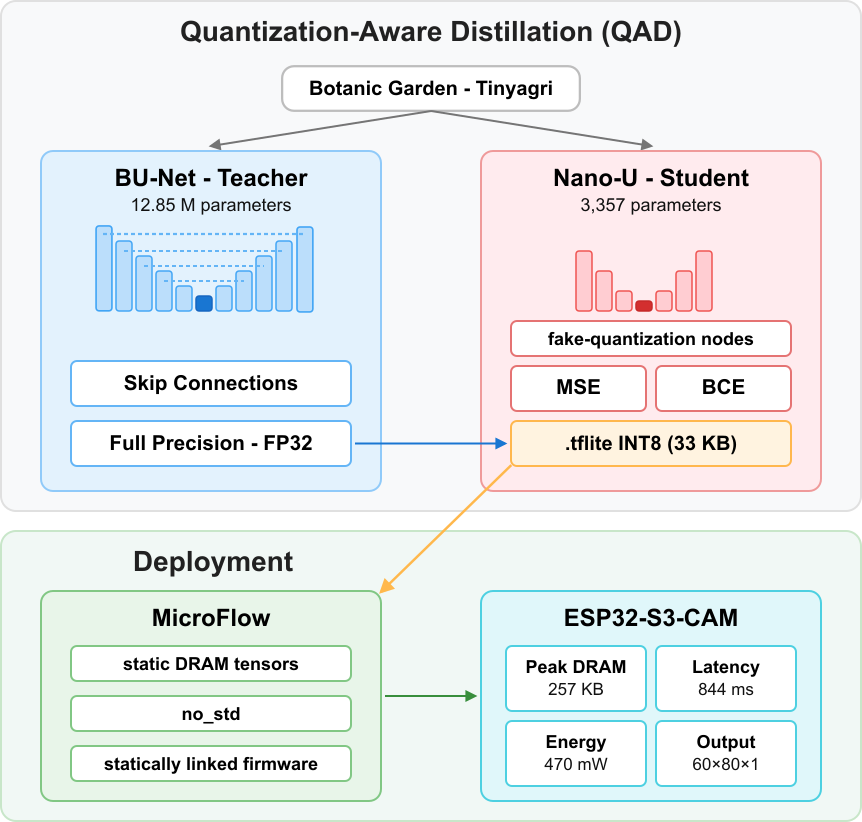
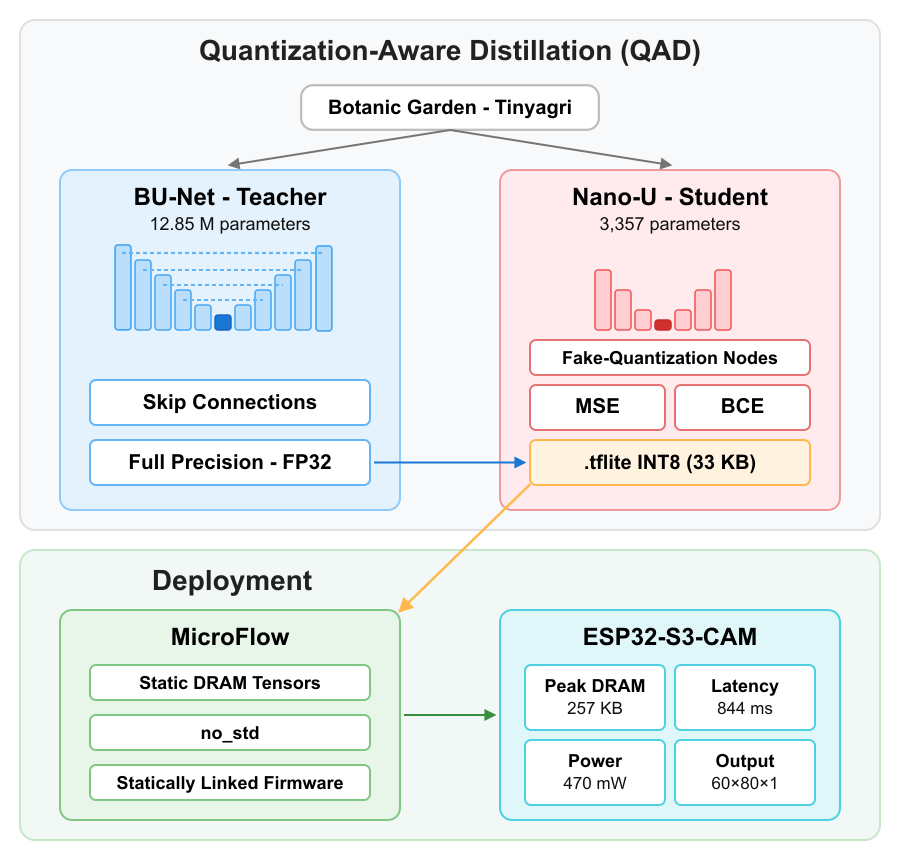
updated documentation

Changed region(s): [[0.0, 0.0, 1.0, 1.0], [0.9954, 0.0, 1.0, 0.6083]]

diff --git a/README.md b/README.md
@@ -24,14 +24,14 @@ The model is trained with **Quantization-Aware Distillation (QAD)** — a single
 
 | Model | Dataset | mIoU | F1 | Precision | Recall |
 |:---|:---|:---:|:---:|:---:|:---:|
-| BU-Net (Teacher, Float32) | Botanic Garden | 94.6% | 95.3% | 96.6% | 93.9% |
-| Nano-U (Float32) | Botanic Garden | 88.2% | 89.0% | 94.6% | 84.0% |
-| **Nano-U (INT8, on ESP32)** | **Botanic Garden** | **88.1%** | **88.9%** | **94.5%** | **83.9%** |
-| BU-Net (Teacher, Float32) | TinyAgri | 91.4% | 95.5% | 94.1% | 96.8% |
-| Nano-U (Float32) | TinyAgri | 87.5% | 93.4% | 90.2% | 97.0% |
-| **Nano-U (INT8, on ESP32)** | **TinyAgri** | **70.6%** | **83.0%** | **80.1%** | **86.1%** |
+| BU-Net (Teacher, Float32) | Botanic Garden | 95.2% | 95.8% | 96.9% | 94.7% |
+| Nano-U (Float32) | Botanic Garden | 87.6% | 88.3% | 94.0% | 83.3% |
+| **Nano-U (INT8, on ESP32)** | **Botanic Garden** | **87.6%** | **88.4%** | **94.1%** | **83.3%** |
+| BU-Net (Teacher, Float32) | TinyAgri | 90.9% | 95.2% | 93.9% | 96.5% |
+| Nano-U (Float32) | TinyAgri | 88.4% | 93.7% | 93.5% | 94.0% |
+| **Nano-U (INT8, on ESP32)** | **TinyAgri** | **88.4%** | **93.7%** | **93.5%** | **93.9%** |
 
-The negligible Float32→INT8 gap on Botanic Garden confirms the QAD pipeline successfully preserves accuracy through quantization. The larger drop on TinyAgri reflects the difficulty of encoding dense overlapping vegetation into INT8 precision (see [Limitations](#limitations)).
+The negligible Float32→INT8 gap on both domains (≈0 pp mIoU) confirms the QAD pipeline preserves accuracy through quantization — the on-device INT8 model matches its Float32 source within measurement noise.
 
 ### Qualitative Results
 
@@ -51,8 +51,8 @@ The diagram below shows the QAD training loop: fake-quantization nodes are injec
 |:---|:---:|
 | Parameters | 3,357 (INT8) |
 | Model size | 33 KB |
-| Peak internal RAM | 257 KB |
-| Inference latency | 846 ms (~1.2 FPS) |
+| Peak internal RAM | 281 KB |
+| Inference latency | 830 ms (~1.2 FPS) |
 | Power consumption | 470 mW |
 
 Peak RAM measured via stack painting (hardware high-water mark). Power measured at the 5V USB rail, inclusive of LDO, OV2640 camera, and USB-UART bridge.
@@ -234,8 +234,7 @@ Nano-U/
 │   ├── train_model.py          # Single-model training
 │   ├── eval_esp32.py           # On-device inference and evaluation
 │   ├── capture_view.py         # Decode live-camera frame dumps (capture bin) to PNG
-│   ├── profile_nano_u.py       # Stack painting and energy profiling
-│   └── profile_mobilenet.py    # MobileNet baseline profiling
+│   └── profile_nano_u.py       # Stack painting and energy profiling
 ├── firmware/                   # ESP32-S3 bare-metal Rust
 │   ├── src/bin/
 │   │   ├── online.rs                 # Live-camera control loop (OV2640 → nav decision)
@@ -266,7 +265,6 @@ All experiments use an **ESP32-S3-CAM** (dual-core Xtensa LX7 @ 240 MHz, 512 KB 
 
 ## Limitations
 
-- **TinyAgri quantization gap**: the 16.9 pp mIoU drop reveals that INT8 precision struggles with dense overlapping vegetation boundaries. Mixed-precision (INT16 in the final decoder stage) may help.
 - **Single-core inference**: the second Xtensa LX7 core is idle. Distributing inference across both cores is the most direct path to halving latency.
 - **Fixed-domain deployment**: Nano-U is currently re-trained from scratch per domain. SVD redundancy scores suggest the encoder generalizes while the decoder is domain-specific, motivating decoder-only re-distillation for new domains.
 

diff --git a/firmware/README.md b/firmware/README.md
@@ -32,7 +32,7 @@ into the 60×80 model input, run through the network, and reduced to a navigatio
 decision printed over serial:
 
 ```text
-FRAME:7 infer=804ms cover L=0.62 C=0.81 R=0.40 -> GO steer=CENTER
+FRAME:7 infer=830ms cover L=0.62 C=0.81 R=0.40 -> GO steer=CENTER
 ```
 
 ```bash